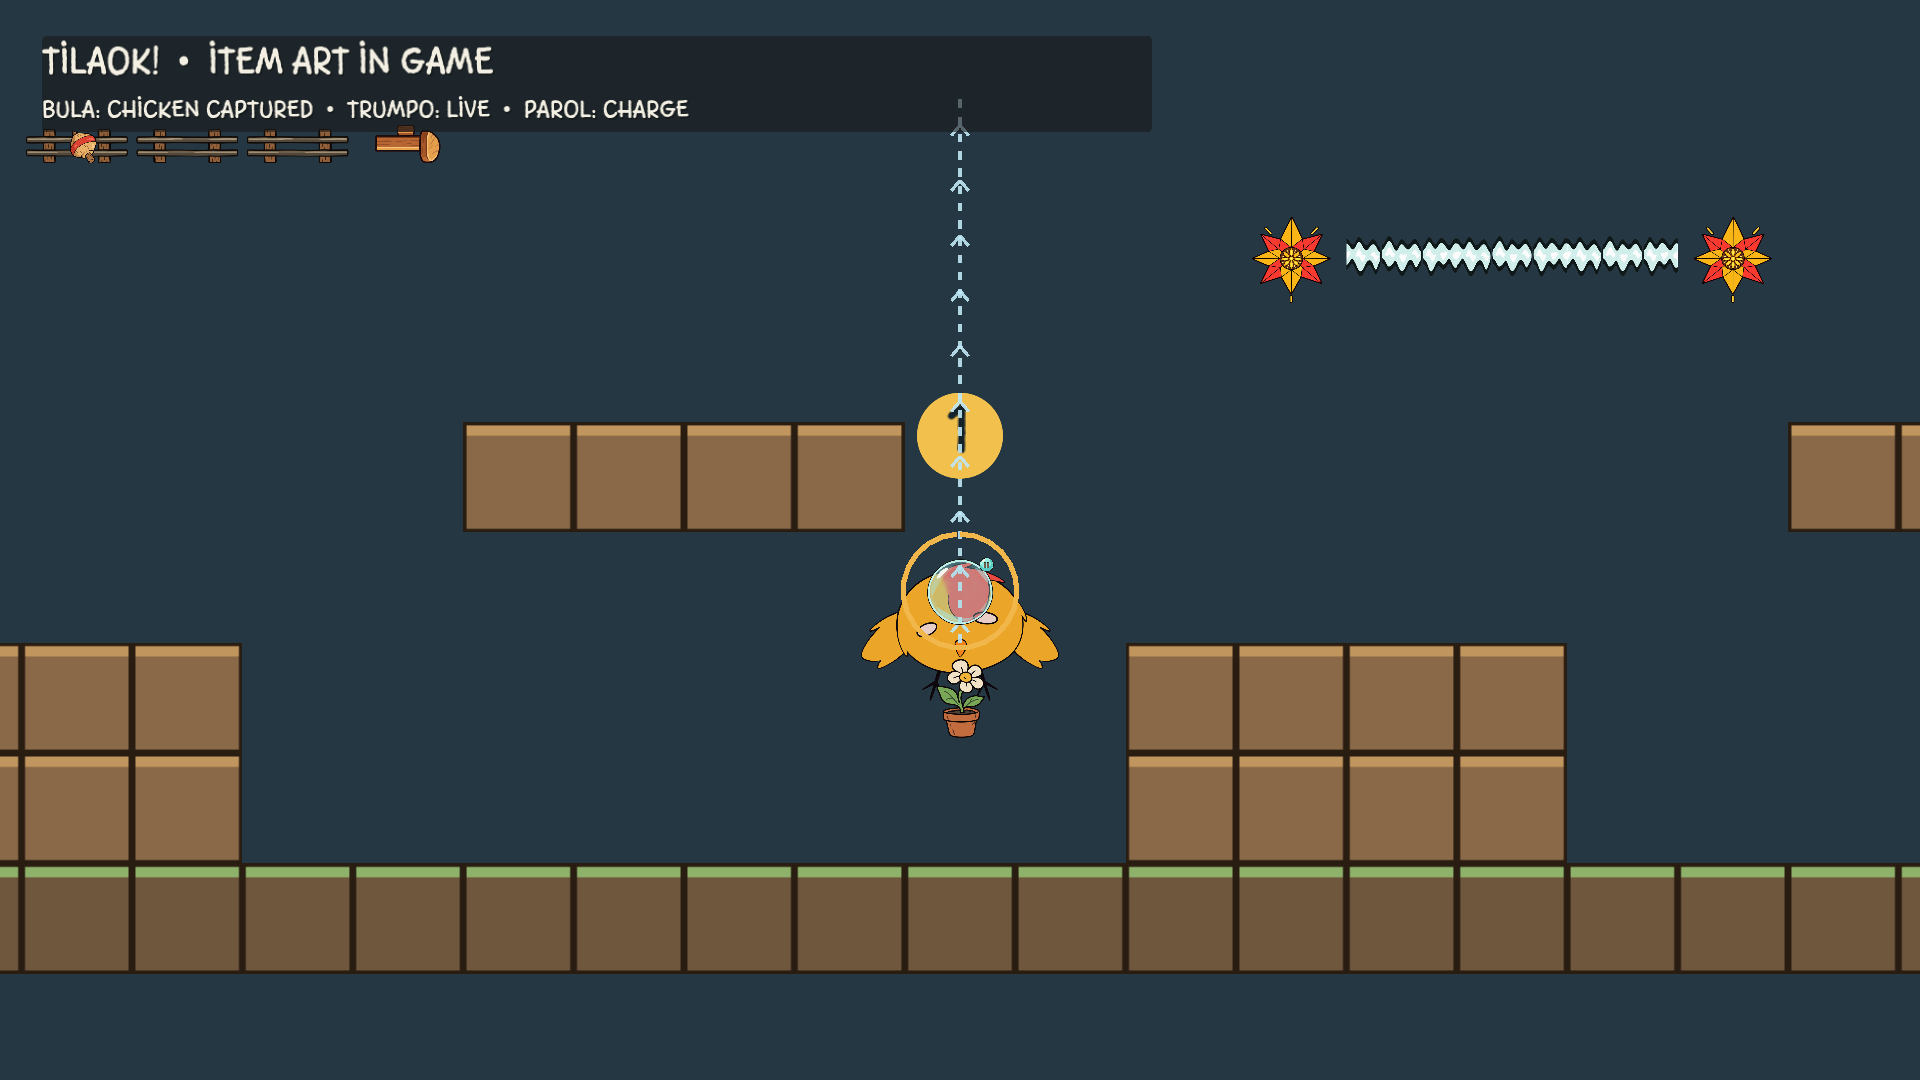
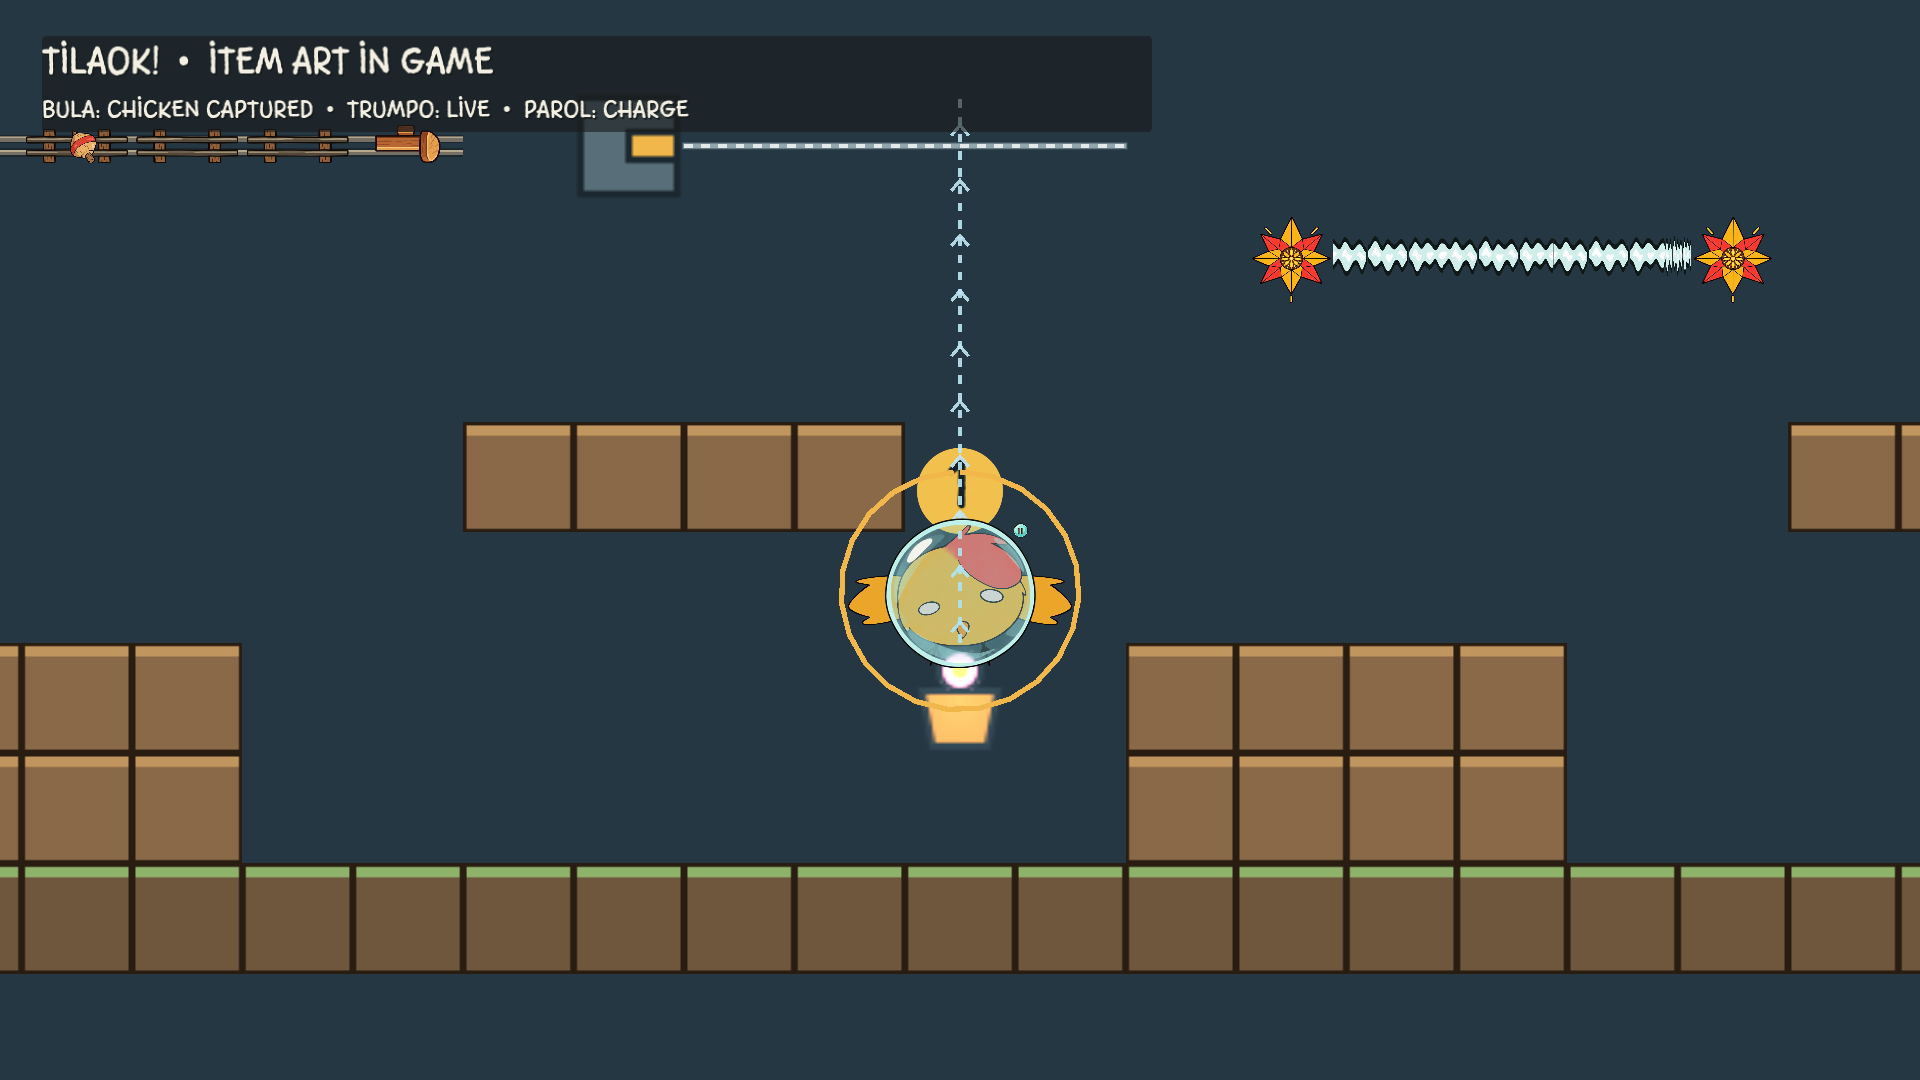
Connect launcher and hazard artwork

diff --git a/docs/evidence/p24_item_art/in_game_capture_manifest.md b/docs/evidence/p24_item_art/in_game_capture_manifest.md
@@ -1,3 +1,3 @@
 # P24 in-game capture
 
-Godot 4.6.3-stable (official); 1920×1080; Item Visualizer stage; real Bula bubble captured the live ChickenController. Trumpo is live. A matched baseline uses the painter's code-drawn placeholder fallbacks in the same frozen scene; after images use the imported art. Parol is sampled at inactive, charge, and active preview times while physics is frozen for the stills.
+Godot 4.6.3-stable (official); 1920×1080; Item Visualizer stage; real Bula bubble captured the live ChickenController. Trumpo is live, and a Tsinelas launcher lane is shown. A matched baseline uses the painter's code-drawn placeholder fallbacks in the same frozen scene; after images use the imported art. Parol is sampled at inactive, charge, and active preview times while physics is frozen for the stills. Rail, beam and launcher guide seams are rendered as connected visual joins; gameplay footprints and blocker clipping are unchanged.
